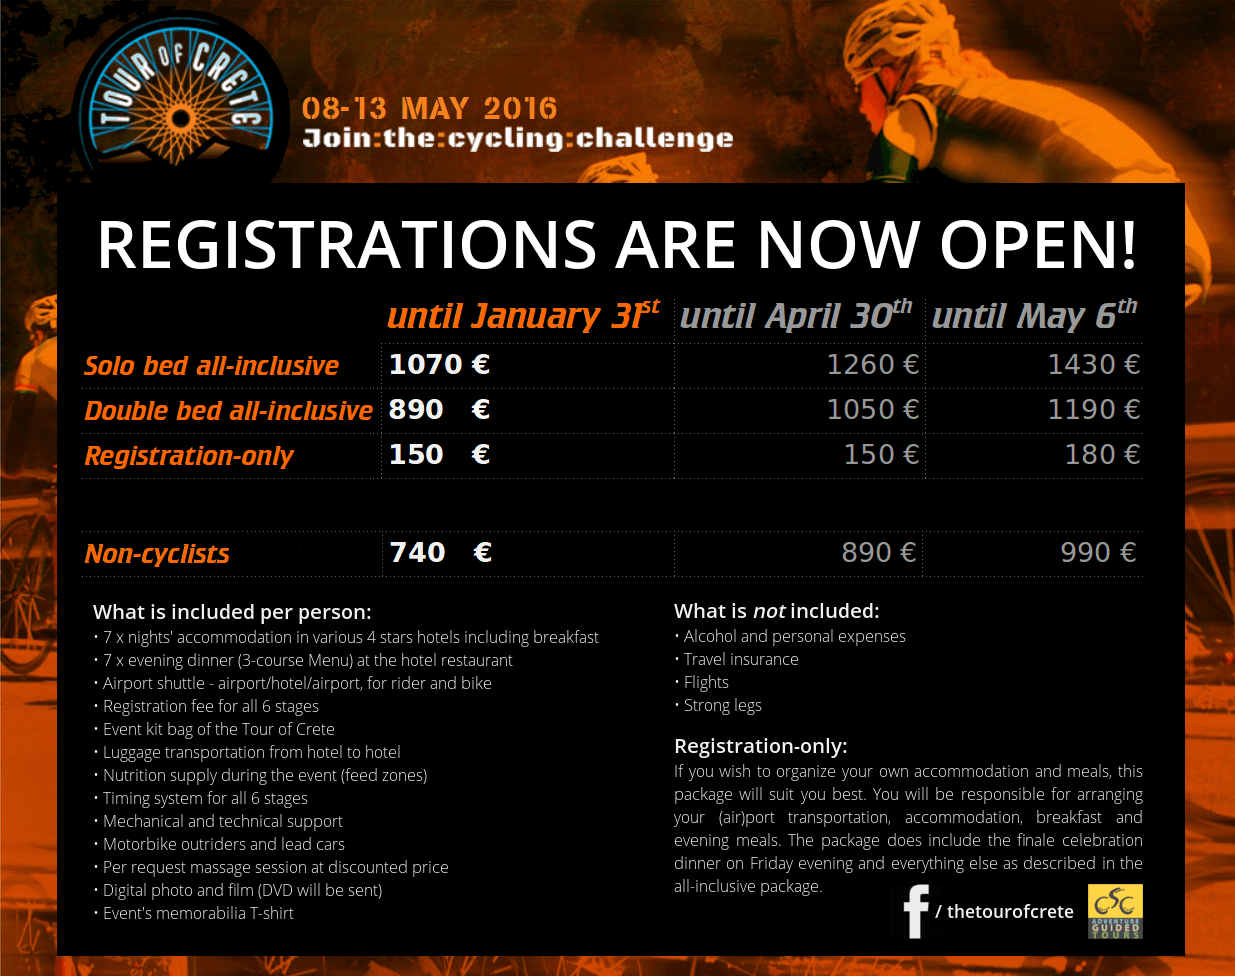
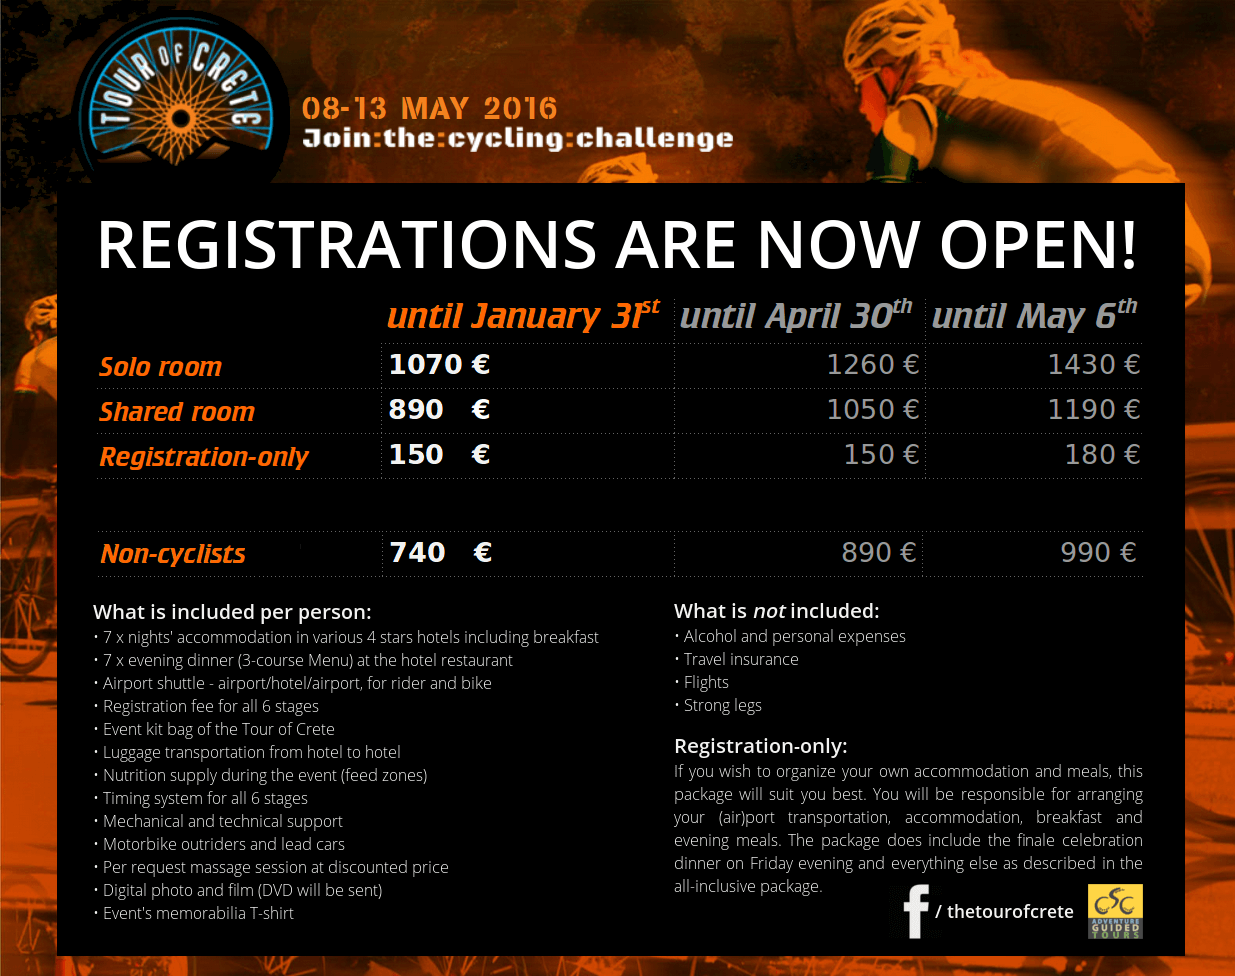
Updates pricelist images to 'Solo room' & 'Shared room'

Changed region(s): [[0.0615, 0.3689, 0.3077, 0.4303], [0.0615, 0.4611, 0.2462, 0.4918], [0.0615, 0.5533, 0.2154, 0.584]]

diff --git a/httpdocs/wp-content/themes/tourofcrete/style.css b/httpdocs/wp-content/themes/tourofcrete/style.css
@@ -222,7 +222,7 @@ a img {
 
 /* Custom class for //registration page -K */
 .imgpricelist {
-	max-width: 66%;
+	max-width: 70%;
 	position: relative;
 }
 
